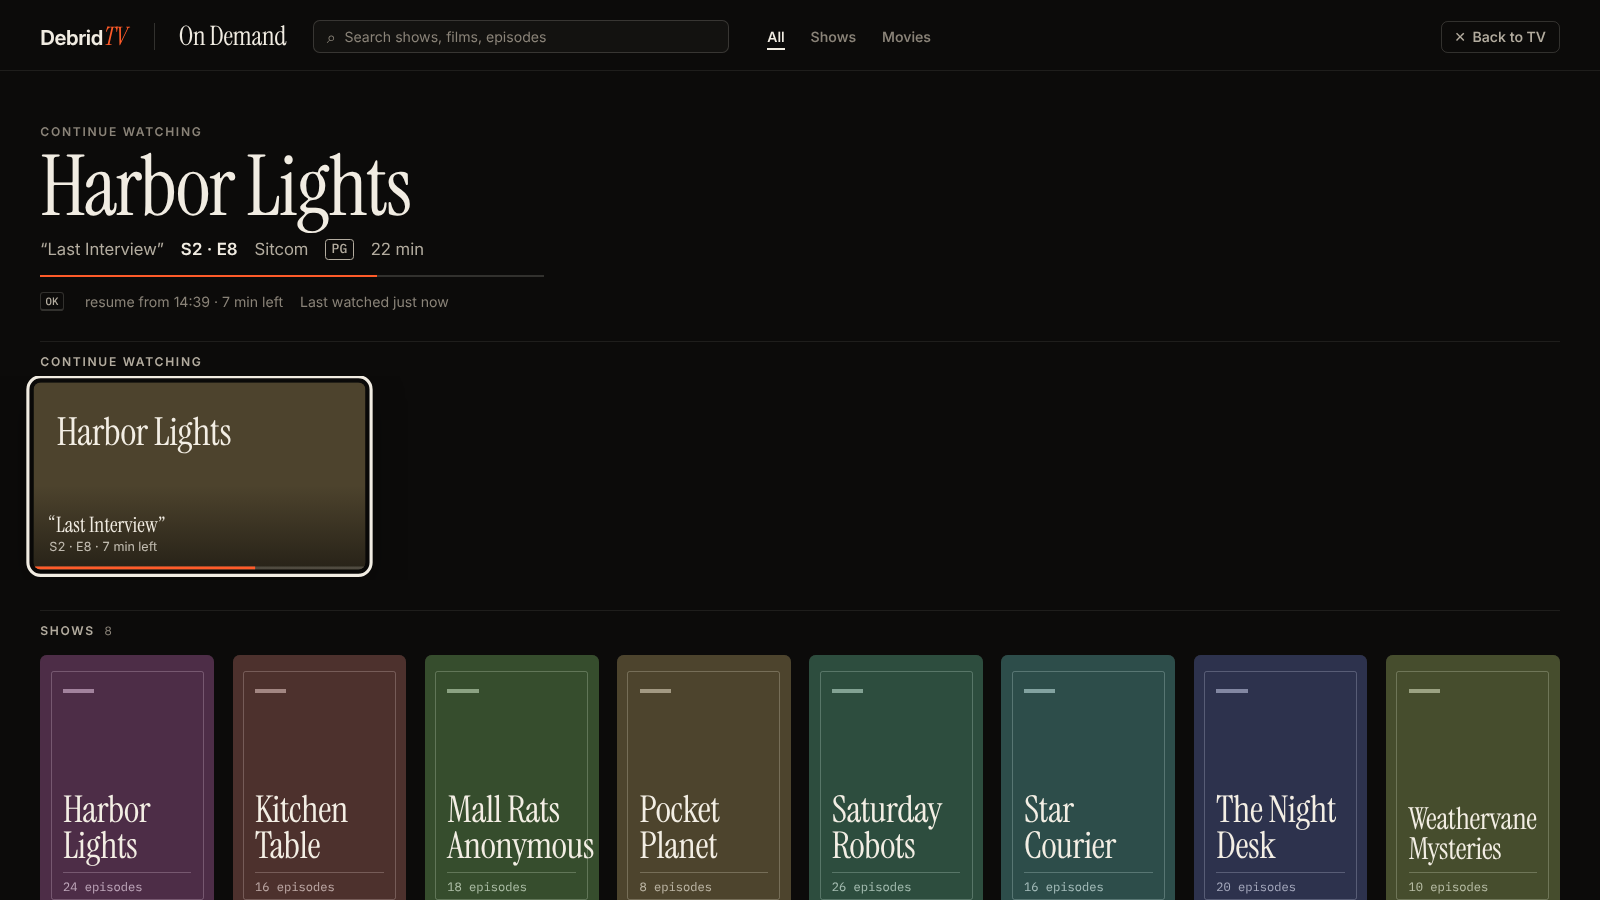
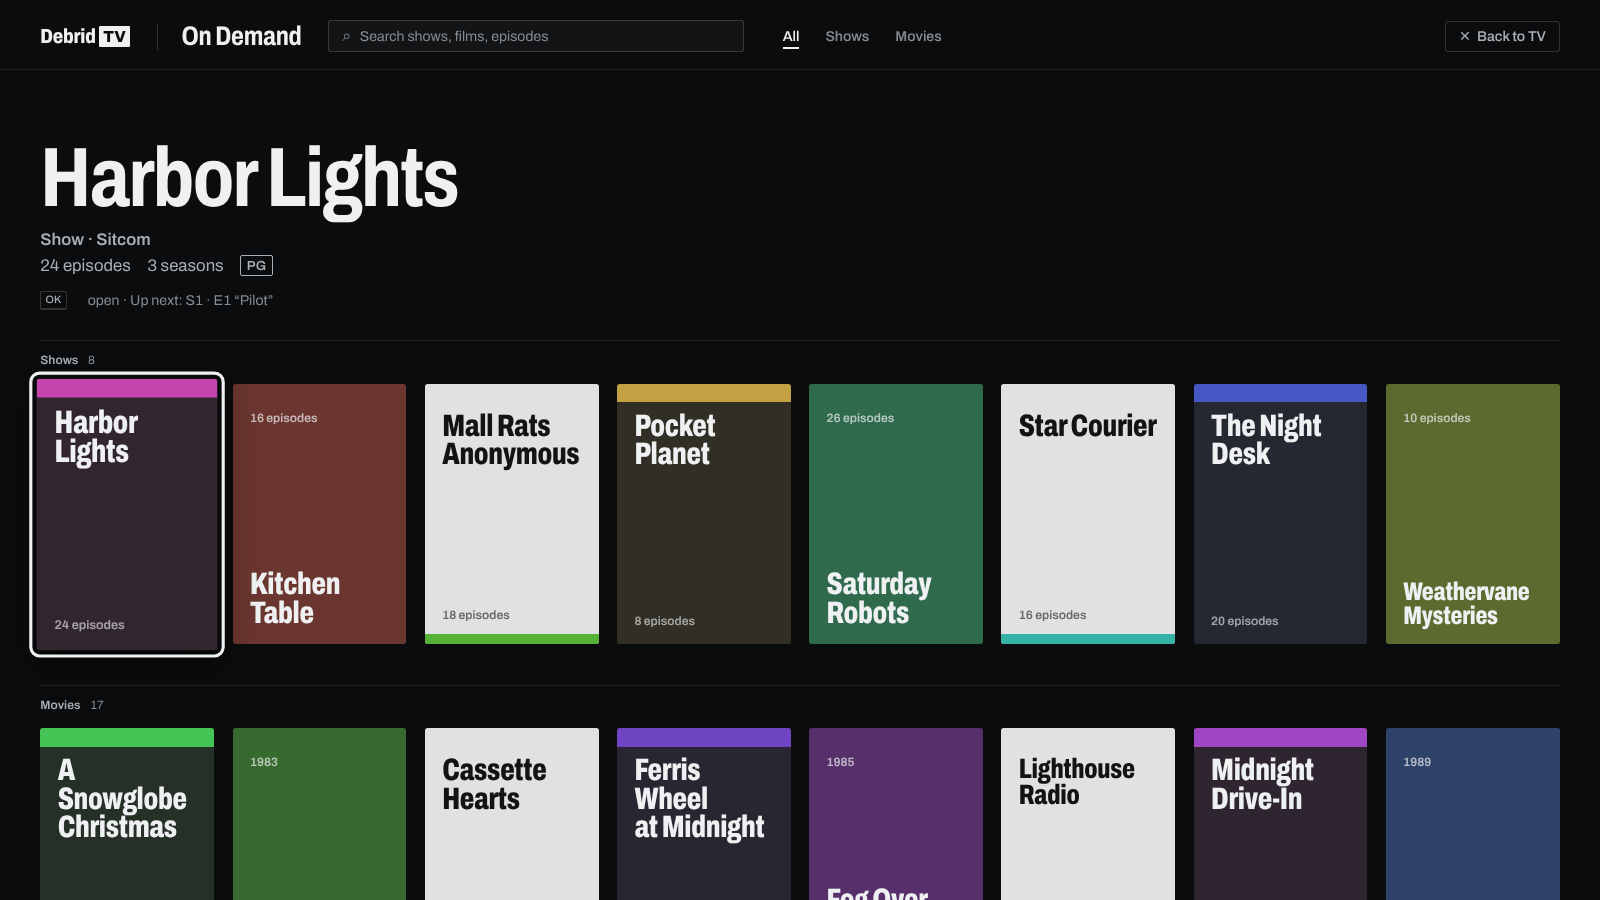
Design: audit against the AI-tells list, restyle sheet titles, reshoot
Claude-Session: https://claude.ai/code/session_01BYca3nigBGgkprfBEq64oh

diff --git a/app/public/styles.css b/app/public/styles.css
@@ -599,9 +599,10 @@ textarea.input { font-family: var(--font-mono); font-size: .9em; line-height: 1.
 }
 .ced-head { display: flex; align-items: center; gap: 1em; padding: 1.3em 1.5em .9em; }
 .ced-head .logo { font-size: 1.6em; }
-.ced-title { flex: 1; min-width: 0; }
-.ced-title .k { font-family: var(--font-ui); font-weight: 600; letter-spacing: 0; text-transform: none; font-size: .7em; color: var(--ink-3); }
-.ced-title .t { font-family: var(--font-display); font-weight: var(--display-wght); font-stretch: var(--display-wdth); font-size: 2em; line-height: 1.02; letter-spacing: -.01em; white-space: nowrap; overflow: hidden; text-overflow: ellipsis; }
+/* The name first, then what this sheet is, on the same line (not an eyebrow over it). */
+.ced-title { flex: 1; min-width: 0; display: flex; align-items: baseline; gap: .7em; }
+.ced-title .k { order: 1; flex: none; font-family: var(--font-ui); font-weight: 500; font-size: .9em; color: var(--ink-3); }
+.ced-title .t { min-width: 0; font-family: var(--font-display); font-weight: var(--display-wght); font-stretch: var(--display-wdth); font-size: 2em; line-height: 1.02; letter-spacing: -.01em; white-space: nowrap; overflow: hidden; text-overflow: ellipsis; }
 .ced-sheet > .tabs { padding: 0 1.25em; }
 .ced-body { overflow-y: auto; padding: 1.2em 1.5em 1.5em; scrollbar-width: thin; scrollbar-color: var(--rule-strong) transparent; }
 .ced-body h4 { font-family: var(--font-display); font-weight: var(--display-wght); font-stretch: var(--display-wdth); letter-spacing: -.005em; font-size: 1.45em; margin: 1.4em 0 .45em; }

diff --git a/app/public/js/tracks.js b/app/public/js/tracks.js
@@ -175,7 +175,7 @@ export const CAPTION_STYLE = {
 export const capPref = (k) => (pref(k) in CAPTION_STYLE[k].opts ? pref(k) : CAPTION_STYLE[k].def);
 
 const SIZES = { s: "clamp(15px, 3.3vh, 42px)", m: "clamp(20px, 4.4vh, 56px)", l: "clamp(24px, 5.8vh, 74px)", xl: "clamp(30px, 7.4vh, 96px)" };
-const FONTS = { classic: "VT323, ui-monospace, Consolas, monospace", clean: "Inter, system-ui, sans-serif" };
+const FONTS = { classic: "VT323, ui-monospace, Consolas, monospace", clean: "Archivo, system-ui, sans-serif" };
 const OUTLINE = "0 0 4px #000, 0 0 2px #000, 1px 1px 2px #000, -1px -1px 2px #000";
 
 // The menu's sample is a small box, so it shows the sizes relative to each other.

diff --git a/app/public/js/synth.js b/app/public/js/synth.js
@@ -78,7 +78,7 @@ function drawSlate(W, H, fileMs) {
   const { airing, hue } = state;
   const u = H / 60;
   const pad = u * 5;
-  ctx.fillStyle = `hsl(${hue} 12% 10%)`;
+  ctx.fillStyle = `hsl(${hue} 7% 10%)`;
   ctx.fillRect(0, 0, W, H);
   // colour bars along the top edge
   const bh = Math.max(2, u * 0.5);

diff --git a/docs/design/ai-tells.md b/docs/design/ai-tells.md
@@ -88,3 +88,42 @@ startup landing pages.
   soft shadows, and weightless copy.
 - [There are 3 telltale signs that you used AI to make your app](https://tech.yahoo.com/ai/copilot/articles/3-telltale-signs-used-ai-040101406.html).
   It notes polish that outruns function, and missing empty, loading and error states.
+
+## Audit, 12 October 2026
+
+Every screen was checked at phone, laptop and TV size: guide, On Demand, show page,
+welcome, settings, channel editor, groups, themes, player bar, subtitles, Back to live,
+pairing and home network. "Before" is the app as of PR #2. "First pass" is the Listings
+redesign as first pushed. "Now" is after this list was written.
+
+| # | Tell | Before | First pass | Now |
+| --- | --- | --- | --- | --- |
+| 1 | Inter as the only face | ✗ Inter plus Barlow | ✗ Inter, serif, mono trio | ✓ Archivo only |
+| 2 | Oversized serif headline | ✓ | ✗ Instrument Serif everywhere | ✓ bold condensed sans |
+| 3 | Italic accent word, coloured stop | ✗ gradient "always on the air." | ✗ italic plus red stop | ✓ |
+| 4 | Eyebrows | ✗ "SHOW · SITCOM", "NOW WATCHING" | ✗ "CONTINUE WATCHING" | ✓ sentence case, under the title |
+| 5 | Monospace for decoration | ✗ counts, kickers | ✗ times, counts, keys | ✓ tabular figures |
+| 6 | Decorative numbering | ✓ | ✓ | ✓ |
+| 7 | Purple gradients, gradient text or buttons | ✗ all three | ✓ | ✓ |
+| 8 | Cream with terracotta | ✓ | ✗ paper and orange | ✓ neutral, tally red |
+| 9 | Glass | ✗ | ✗ blur behind dialogs | ✓ opaque |
+| 10 | Glows | ✗ focus and logo glow | ✓ | ✓ live dot glow removed too |
+| 11 | Blobs, aurora, grain | ✗ synthwave, blurred blobs | ✗ drifting colour field, grain | ✓ program slate |
+| 12 | Shadow on every card | ✗ | ✓ | ✓ |
+| 13 | Pills, one big radius | ✗ | ✗ pill chips | ✓ 2 to 4 px |
+| 14 | Generic icons, emoji | ✗ ◷ ▶ ⚙ in the guide bar | ✗ line icons | ✓ text, plus the CC box |
+| 15 | Identical colour tiles | ✗ gradient tiles | ✗ same frame, hue only | ◐ three layouts; posters still best |
+| 16 | Everything centred | ✗ centred welcome | ✓ | ✓ |
+| 17 | Em dashes in copy | ✓ | ✓ | ✓ |
+| 18 | Weightless lines | ✗ "Your library, always on the air." | ✗ same line | ✓ "These are demo channels." |
+| 19 | Placeholder passing as real | ✓ demo is labelled | ✓ | ✓ |
+| 20 | Overflow and overlap | ✗ cover titles cut | ✗ break card under the banner | ✓ both fixed |
+| | **Passes** | **5 of 20** | **7 of 20** | **19 of 20, 1 partial** |
+
+What's left on purpose:
+
+- The player bar keeps standard media icons (play, skip, volume, full screen). They are
+  controls, not decoration.
+- Small uppercase stays on broadcast badges like LIVE, HD and PG.
+- Drawn covers are still placeholders. Real posters from TMDB or Kodi art replace them
+  wherever a match is found.
